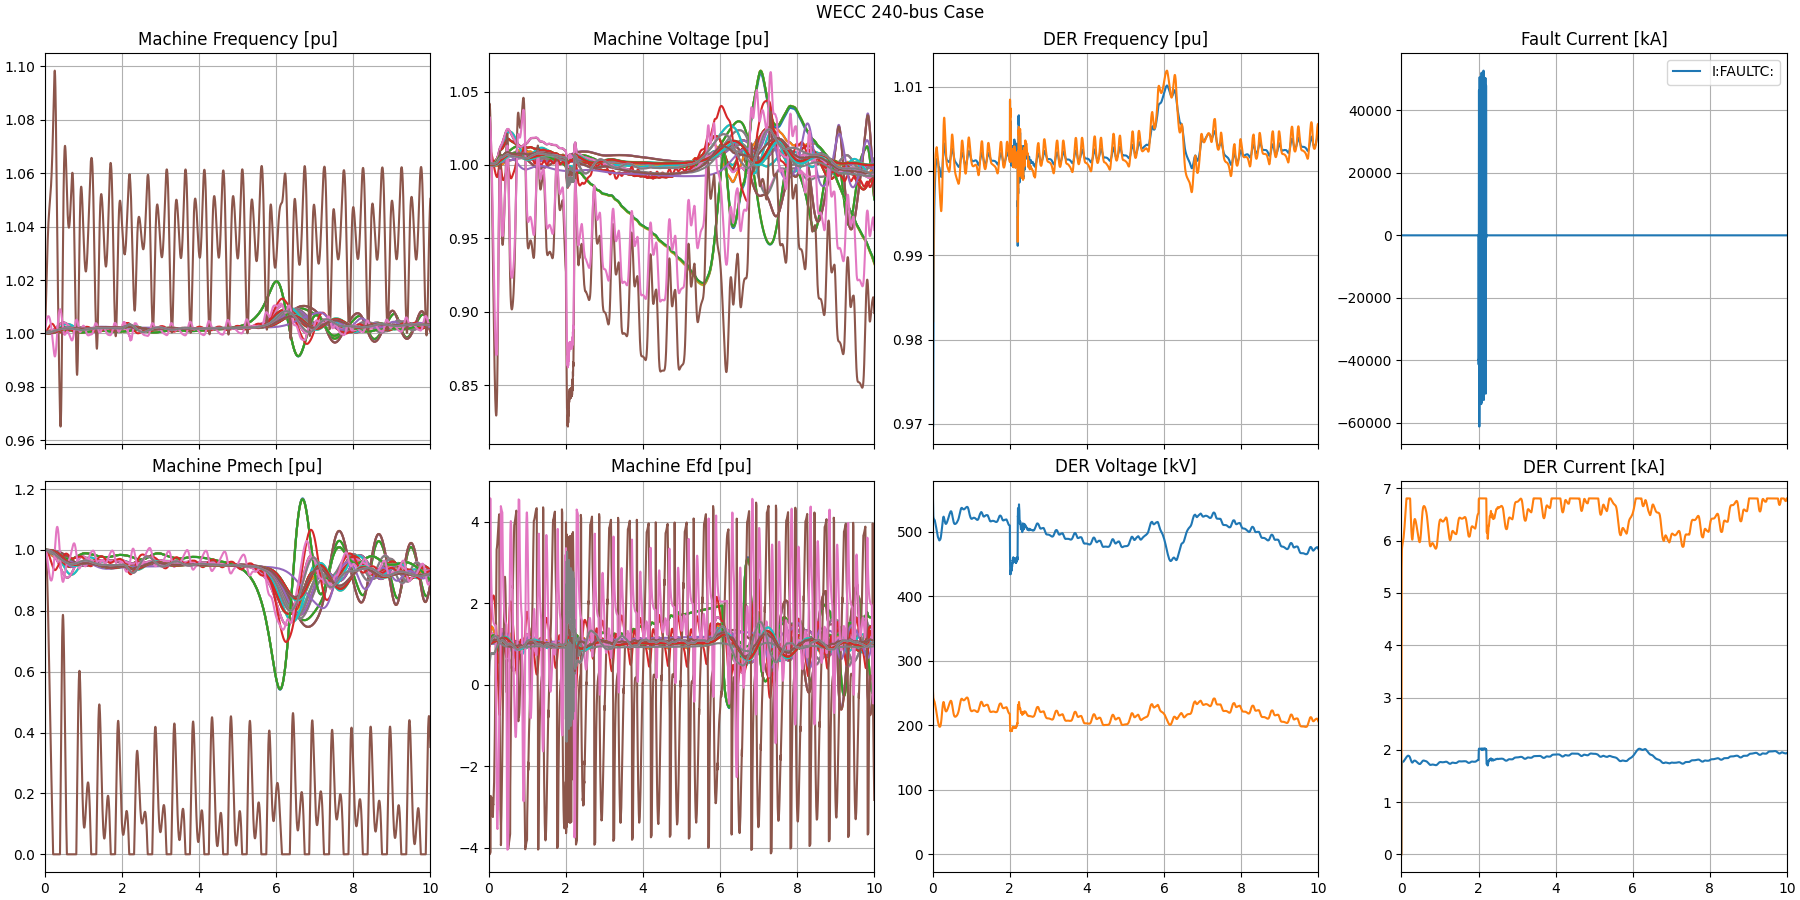
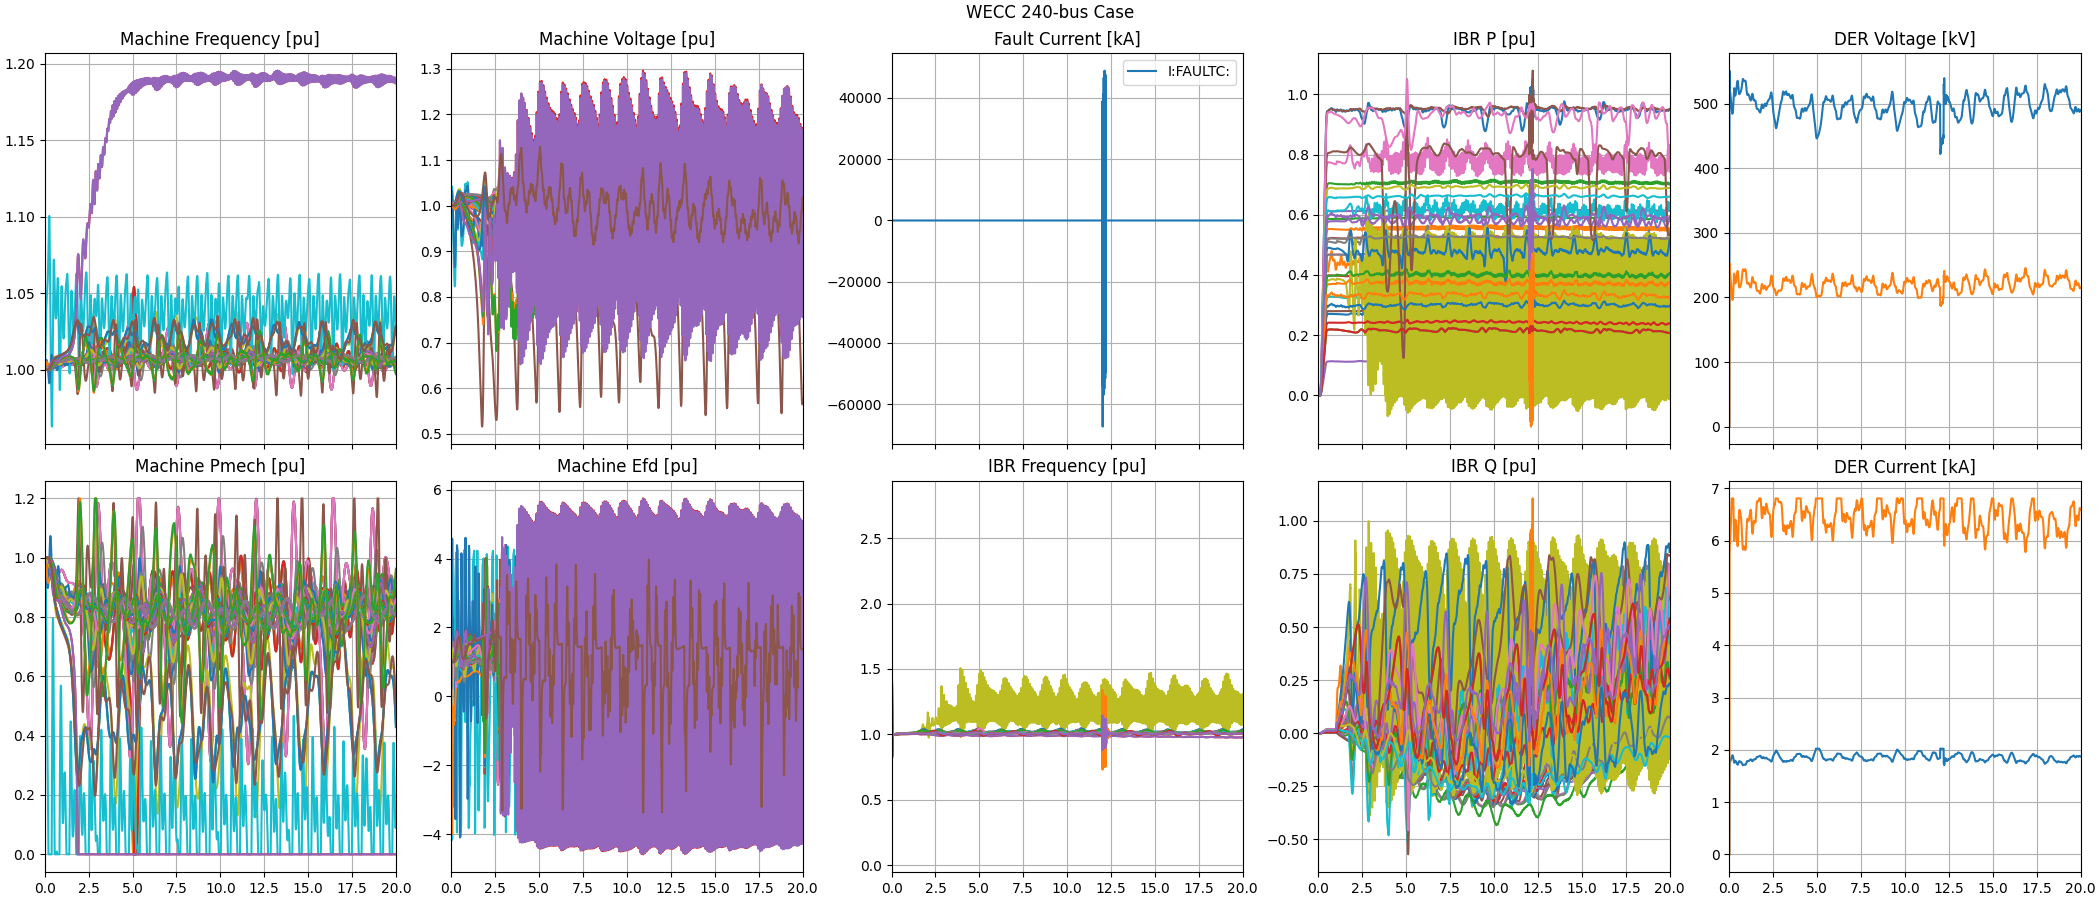
wecc 240-bus case runs in ATP with all IBR

diff --git a/atp/src/plot240.py b/atp/src/plot240.py
@@ -5,8 +5,9 @@ import pandas as pd
 import os
 import math
 
-NMACH = 49
+NMACH = 87
 NDER = 2
+NIBR = 35
 OMEGA = 2.0 * 60.0 * math.pi
 
 plt.rcParams['savefig.directory'] = os.getcwd()
@@ -45,7 +46,18 @@ if __name__ == '__main__':
         line += ' {:13.5f} {:13.5f}'.format (data.min(), data.max())
     print (line)
 
-  fig, ax = plt.subplots (2, 4, sharex = 'col', figsize=(18,9), constrained_layout=True)
+  print ('IBR               FREQ Min           Max       P   Min           Max     Q     Min           Max                            ')
+  for i in range(NIBR):
+    ibr = 'IBR{:02d}'.format(i+1)
+    line = '{:12s}'.format(ibr)
+    for sig in ['F', 'P', 'Q']:
+      key = 'T:{:s}{:s}'.format (ibr, sig)
+      if key in df:
+        data = df[key]
+        line += ' {:13.5f} {:13.5f}'.format (data.min(), data.max())
+    print (line)
+
+  fig, ax = plt.subplots (2, 5, sharex = 'col', figsize=(21,9), constrained_layout=True)
   fig.suptitle ('WECC 240-bus Case')
   t = df.index
   tmin = t[0]
@@ -63,16 +75,16 @@ if __name__ == '__main__':
     if key in df:
       ax[0,1].plot (t, df[key])
 
-  ax[0,2].set_title ('DER Frequency [pu]')
-  for i in range(NMACH):
-    key = 'T:DR{:03d}W'.format(i+1)
-    if key in df:
-      ax[0,2].plot (t, df[key] / OMEGA)
-
-  ax[0,3].set_title ('Fault Current [kA]')
+  ax[0,2].set_title ('Fault Current [kA]')
   key = 'I:FAULTC:'
-  ax[0,3].plot (t, df[key], label=key)
-  ax[0,3].legend()
+  ax[0,2].plot (t, df[key], label=key)
+  ax[0,2].legend()
+
+  ax[0,3].set_title ('IBR P [pu]')
+  for i in range(NIBR):
+    key = 'T:IBR{:02d}P'.format(i+1)
+    if key in df:
+      ax[0,3].plot (t, df[key], label=key)
 
   ax[1,0].set_title ('Machine Pmech [pu]')
   for i in range(NMACH):
@@ -86,20 +98,38 @@ if __name__ == '__main__':
     if key in df:
       ax[1,1].plot (t, df[key])
 
-  ax[1,2].set_title ('DER Voltage [kV]')
-  for i in range(NMACH):
+  ax[1,2].set_title ('IBR Frequency [pu]')
+  for i in range(NIBR):
+    key = 'T:IBR{:02d}F'.format(i+1)
+    if key in df:
+      ax[1,2].plot (t, df[key] / 376.9911)
+
+  ax[1,3].set_title ('IBR Q [pu]')
+  for i in range(NIBR):
+    key = 'T:IBR{:02d}Q'.format(i+1)
+    if key in df:
+      ax[1,3].plot (t, df[key])
+
+  ax[0,4].set_title ('DER Voltage [kV]')
+  for i in range(NDER):
     key = 'T:DR{:03d}V'.format(i+1)
     if key in df:
-      ax[1,2].plot (t, df[key] / 1000.0)
-
-  ax[1,3].set_title ('DER Current [kA]')
-  for i in range(NMACH):
+      ax[0,4].plot (t, df[key] / 1000.0)
+ 
+  ax[1,4].set_title ('DER Current [kA]')
+  for i in range(NDER):
     key = 'T:DR{:03d}I'.format(i+1)
     if key in df:
-      ax[1,3].plot (t, df[key] / 1000.0)
+      ax[1,4].plot (t, df[key] / 1000.0)
+
+# ax[0,2].set_title ('DER Frequency [pu]')
+# for i in range(NMACH):
+#   key = 'T:DR{:03d}W'.format(i+1)
+#   if key in df:
+#     ax[0,2].plot (t, df[key] / OMEGA)
 
   for i in range(2):
-    for j in range(4):
+    for j in range(5):
 #      ax[i,j].legend()
       ax[i,j].grid()
       ax[i,j].set_xlim (tmin, tmax)
